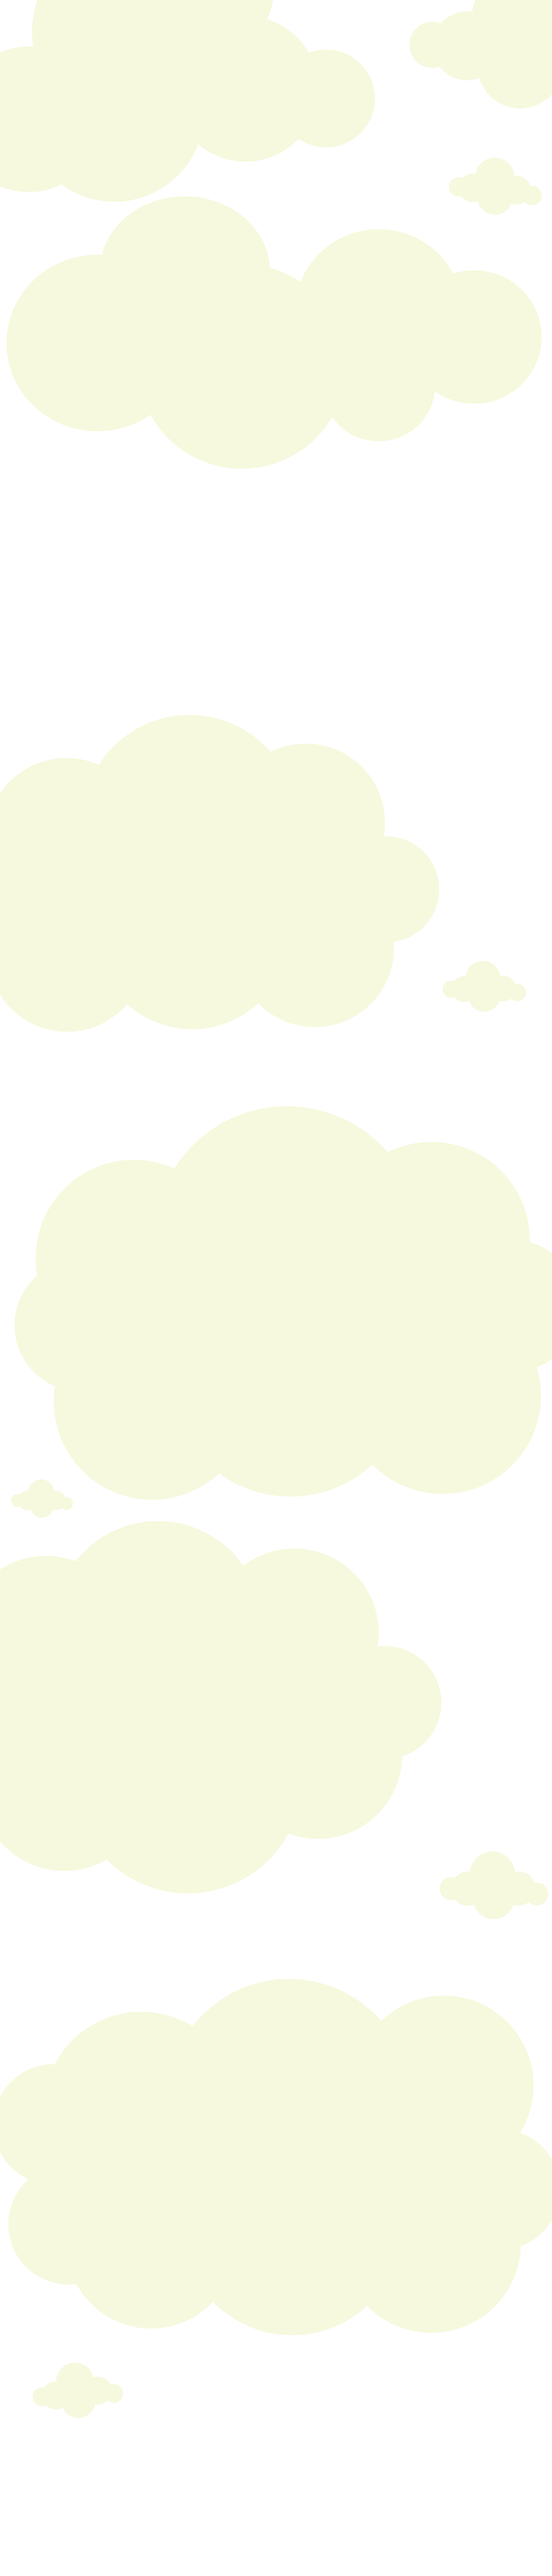
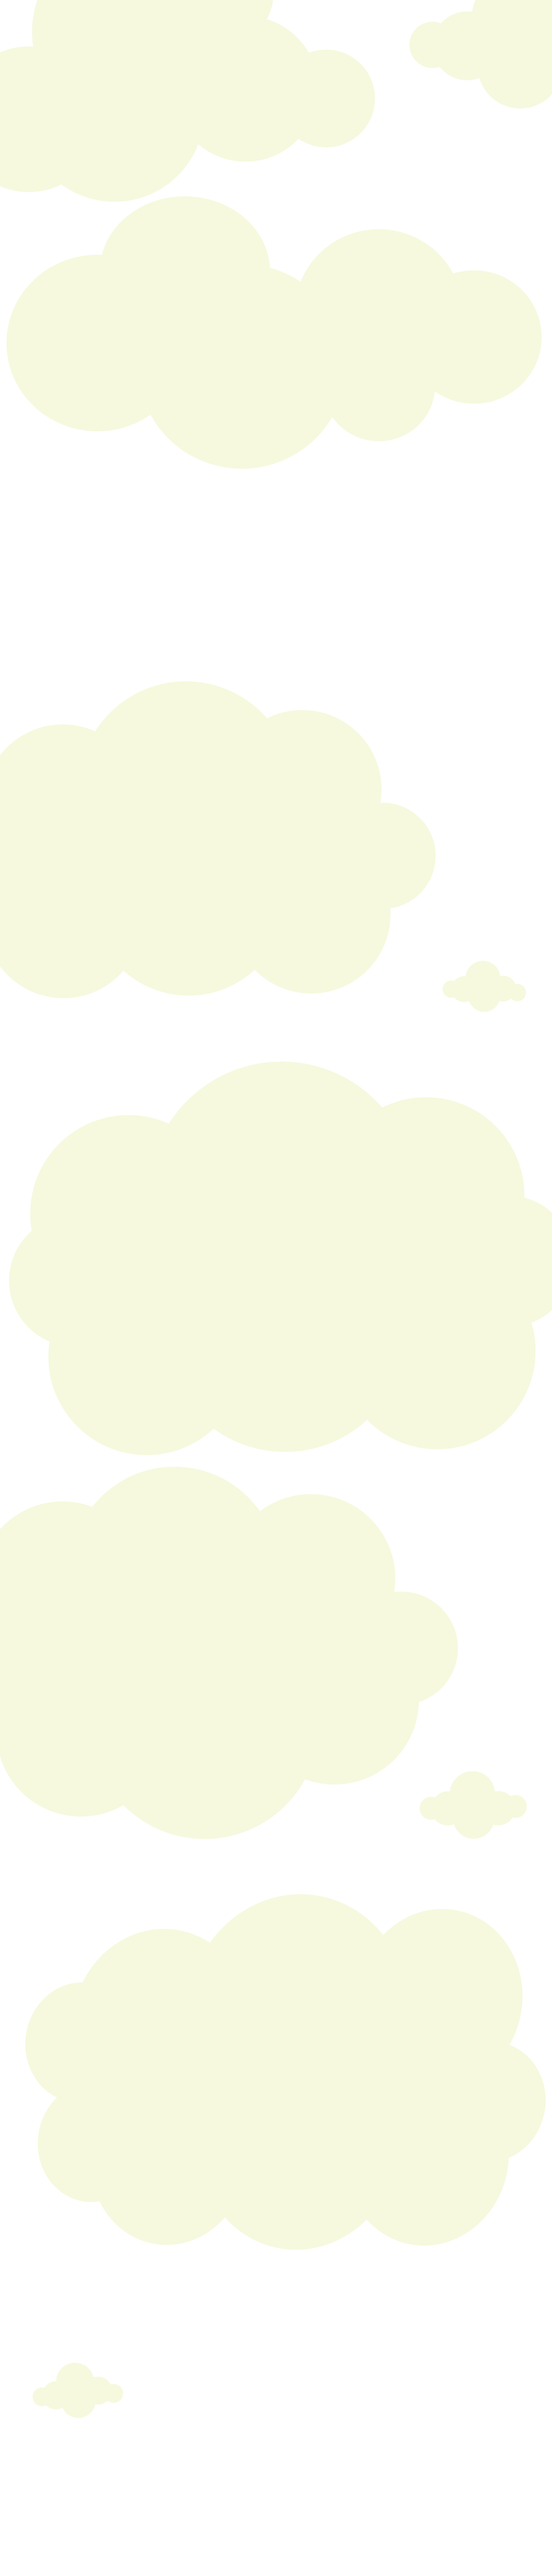
we're getting close

Changed region(s): [[0.0, 0.249, 1.0, 0.9339], [0.8292, 0.0623, 0.9827, 0.0934]]

diff --git a/css/styles.css b/css/styles.css
@@ -36,7 +36,7 @@ header p,p, figcaption{
 }
 
 strong{
-    font-weight: 800;
+    font-weight: 300;
 }
 
 img{
@@ -216,7 +216,7 @@ header p{
       transform: scale(1);
     }
     50% {
-      transform: scale(1.2);
+      transform: scale(1.3);
     }
 }
 
@@ -312,50 +312,49 @@ header p{
 .vierde div a{ /*button*/
     display: block;
     margin: 0 auto;
-    width: 37%;
+    width: 15%;
+    text-align: center;
 
     color: rgb(226, 174, 143);
     text-decoration: none;
 
     border: 1px solid #B89671;
-    padding: 13px 20px 13px;
+    padding: 10px 20px 13px;
 
     background-color: #4B3E30;
     box-shadow: #4B3E30 4px 4px;
 
-    margin-top: 4.4em;
-    margin-bottom: 1em;
+    margin-top: 2.5em;
+    margin-bottom: 0.5em;
 }
 
 /*------------------------------------------vijfde pagina------------------------------------------------*/
 
 .vijfde{ /*wolken*/
-    background-image: url(../images/wolkentest.png);
+    background-image: url(../images/wolken.png);
     background-size: cover;
+    left: 0;
+    right: 0;
 
     position: absolute;
 }
 
 .vijfde main div img:last-of-type{ /*wolk*/
     width: 3.5em; 
-    /* animation: wolkje 30s ease-in-out infinite running; */
+    position: relative;
+    animation: wolkje 10s ease-in-out infinite running;
 }
 
-@keyframes wolkje { /*wolk*/
-    0%, 100% {
-        transform: translateX(100vw); /*de studentenassitent heeft me bij internetstandaarden deze regel geleerd, heb ik nu zelf toegepast :)*/
+@keyframes wolkje{
+    0% {
+        left: 300px;
     }
-    25% {
-        transform: translateX(10);
-    }
-
     50% {
-        transform: translateX(15vw);
+        left: 50px;
     }
-
-    90% {
-        transform: translateX(23vw);
-    } 
+    100% {
+        left: 300px;
+    }
 }
 
 .vijfde header p{ /*zodat deze nog wel zichtbaar is*/
@@ -424,7 +423,7 @@ header p{
 }
 
 .vijfde footer{
-    margin-bottom: 10em;
+    margin-bottom: 15em;
 }
 
 /* footer */

diff --git a/vierde-bewust.html b/vierde-bewust.html
@@ -22,21 +22,21 @@
           <section>
             <h1>Tip twee</h1>
 
-            <img src="./images/moestuinbakachtergrond.png" alt="Een moestuinbak als achtergrond" class="achtergrondplaatje">
+            <img src="./images/moestuinbak.png" alt="Een moestuinbak als achtergrond" class="achtergrondplaatje">
 
             <h2>Bewust eten</h2>
 
             <img src="./images/bewustpersoon.png" alt="Persoon in lotushouding met een groen blaadje = bewust nadenken">
 
             <p>
-                Sta vaker stil te staan bij de dingen die je eet. 
+                Sta vaker stil bij de dingen die je eet. 
                 Eet bijvoorbeeld meer groenten en fruit, die zijn bijzonder goed voor je! Een gouden tip: <a href="https://www.jannekevandermeulen.nl/product/de-eiwit-leugen/"> het boek De Eiwitleugen</a>, 
                 daar eet de schrijfster twintig stuks fruit per dag (en aan het einde van het boek wil je dat ook)...
             </p>
           </section>
             
           <div>
-            <a href="derde.html">Geef me meer tips!</a>
+            <a href="derde.html">Terug</a>
           </div>    
         </main>
 

diff --git a/vierde-biologisch.html b/vierde-biologisch.html
@@ -21,22 +21,22 @@
         <main>
           <section>
             <h1>Tip vijf</h1>
-            
-            <img src="./images/moestuinbakachtergrond.png" alt="Een moestuinbak als achtergrond" class="achtergrondplaatje">
+
+            <img src="./images/moestuinbak.png" alt="Een moestuinbak als achtergrond" class="achtergrondplaatje">
 
             <h2>Eet biologisch</h2>
 
             <img src="./images/bioicoon.png" alt="Bio icoon, twee bladeren en een waaruit een hap is genomen">
 
             <p>
-                Zelf eten verbouwen is niet altijd mogelijk. Een tip is om klein te beginnen
+                Zelf eten verbouwen is helaas niet altijd mogelijk. Wees echter niet getreurg, een tip is om klein te beginnen
                 door bijvoorbeeld je boodschappen te doen bij een biologische supermarkt. 
                 Dit kan natuurlijk ook altijd bij de bio-afdeling in je gebruikelijke supermarkt!
             </p>
           </section>
             
           <div>
-            <a href="derde.html">Geef me meer tips!</a>
+            <a href="derde.html">Terug</a>
           </div>    
         </main>
 

diff --git a/vierde-kamerplant.html b/vierde-kamerplant.html
@@ -21,8 +21,8 @@
         <main>
           <section>
             <h1>Tip vier</h1>
-            
-            <img src="./images/moestuinbakachtergrond.png" alt="Een moestuinbak als achtergrond" class="achtergrondplaatje">
+
+            <img src="./images/moestuinbak.png" alt="Een moestuinbak als achtergrond" class="achtergrondplaatje">
 
             <h2>Kamerplanten</h2>
 
@@ -30,13 +30,13 @@
 
             <p>
                Kamerplanten zorgen niet alleen voor een mooi interieur, maar zorgen er ook voor dat 
-               je meer voor de natuur zorgt. Simpewelweg, doordat je meer natuur hebt. Denk er bijvoorbeeld eens
+               je meer voor de natuur zorgt. Simpelweg, doordat je meer natuur hebt. Denk er bijvoorbeeld eens
                aan om meer groen in je huis te verzamelen als begin, het zal je goed doen!
             </p>
           </section>
             
           <div>
-            <a href="derde.html">Geef me meer tips!</a>
+            <a href="derde.html">Terug</a>
           </div>    
         </main>
 

diff --git a/vierde-minimoestuin.html b/vierde-minimoestuin.html
@@ -22,7 +22,7 @@
           <section>
             <h1>Tip één</h1>
 
-            <img src="./images/moestuinbakachtergrond.png" alt="Een moestuinbak als achtergrond" class="achtergrondplaatje">
+            <img src="./images/moestuinbak.png" alt="Een moestuinbak als achtergrond" class="achtergrondplaatje">
 
             <h2>Mini moestuin</h2>
 
@@ -30,13 +30,13 @@
 
             <p>
                 In veel supermarkten verkopen ze mini-plantjes waarbij je je eigen kruiden kunt 
-                (zien) groeien. Dit is een mooi alternatief voor geen tuin hebben. Leer bijvoorbeeld ook 
+                (zien) groeien. Dit is een mooi alternatief voor mensen die geen tuin hebben. Leer bijvoorbeeld ook 
                 hoe je eetbare bloemen zou kunnen kweken in de zomer. Die staan prachtig in een salade.
             </p>
           </section>
             
           <div>
-            <a href="derde.html">Geef me meer tips!</a>
+            <a href="derde.html">Terug</a>
           </div>    
         </main>
 

diff --git a/vierde-inspiratie.html b/vierde-inspiratie.html
@@ -22,7 +22,7 @@
           <section>
             <h1>Tip drie</h1>
 
-            <img src="./images/moestuinbakachtergrond.png" alt="Een moestuinbak als achtergrond" class="achtergrondplaatje">
+            <img src="./images/moestuinbak.png" alt="Een moestuinbak als achtergrond" class="achtergrondplaatje">
 
             <h2>Inspiratie opdoen</h2>
 
@@ -36,7 +36,7 @@
           </section>
             
           <div>
-            <a href="derde.html">Geef me meer tips!</a>
+            <a href="derde.html">Terug</a>
           </div>    
         </main>
 

diff --git a/derde.html b/derde.html
@@ -39,7 +39,7 @@
 
                     <section>
                         <h2>Mini moestuin</h2>
-                        <p>Een moestuin hoeft niet gelijk groot te zijn. Denk ook aak kruidenplantjes in de keuken. 
+                        <p>Een moestuin hoeft niet gelijk groot te zijn. Denk ook aan kruidenplantjes in de keuken. 
                             Klein, maar toch leuk en leerzaam.</p>
                         <a href="vierde-minimoestuin.html">Lees meer...</a>
                     </section>

diff --git a/vijfde.html b/vijfde.html
@@ -20,7 +20,7 @@
         <main>
             <div>
                 <img src="./images/wolken.png" alt="Wolken achtergrond" class="achtergrondplaatje">
-                <img src="./images/wolkje.png" alt="Een kleine wolk">
+                <img src="./images/wolkje.png" alt="Een kleine wolk" class="wolkje">
             </div>
             
             <section>
